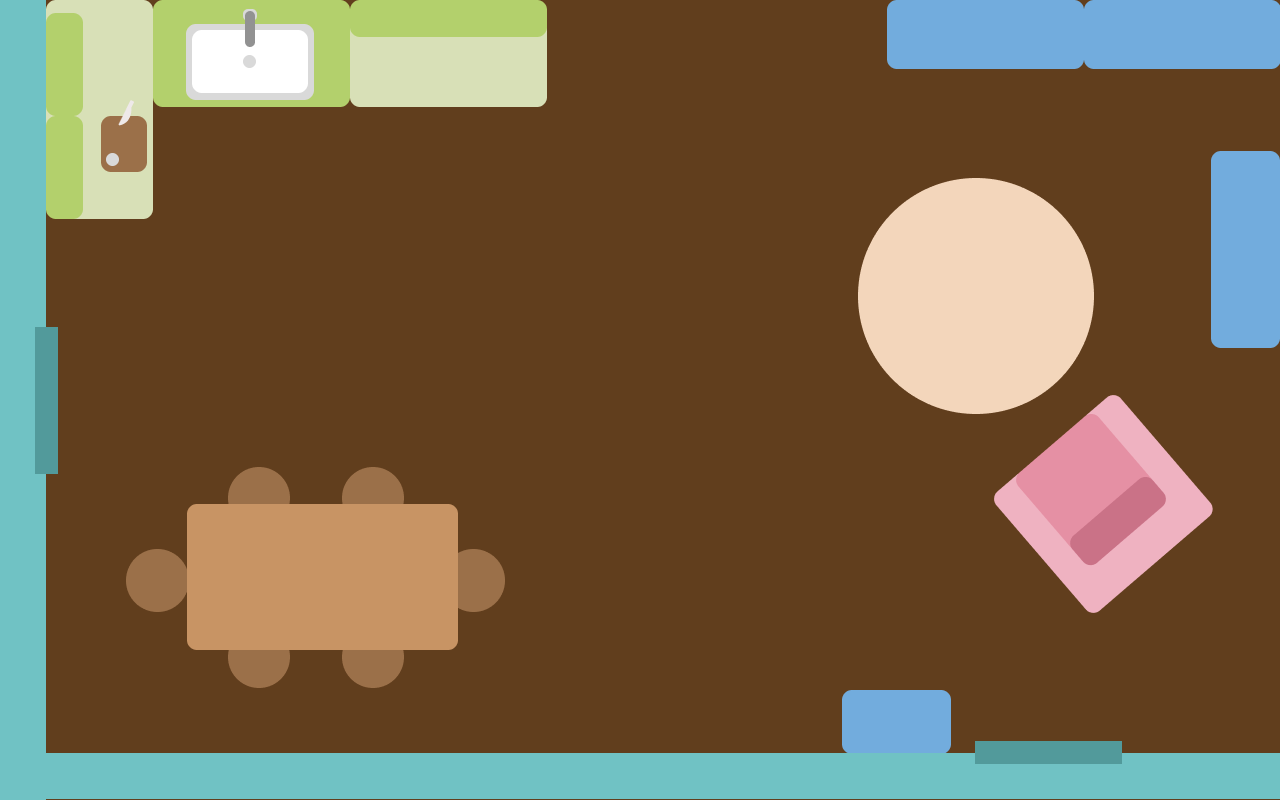
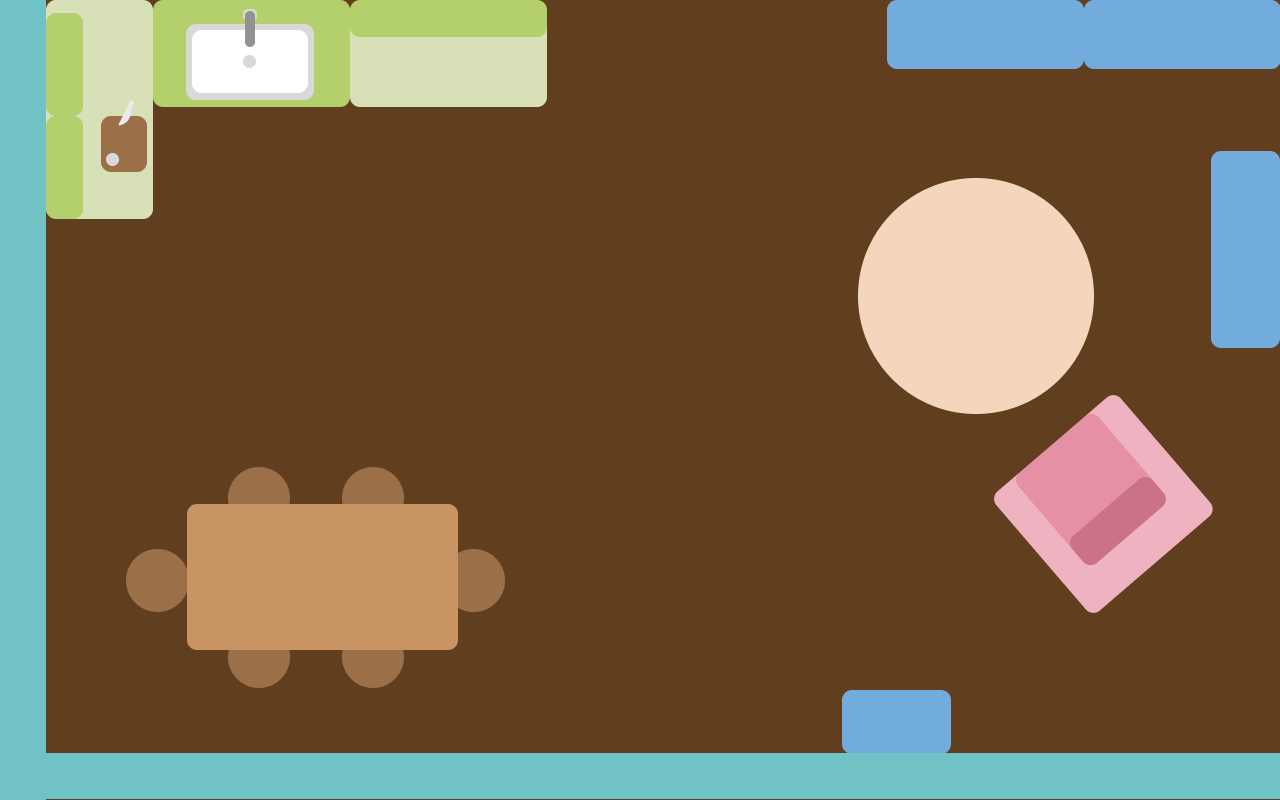
Added redirection to doors and holdoff timer

Changed region(s): [[0.0, 0.4062, 0.0625, 0.5938], [0.75, 0.9062, 0.875, 0.9688]]

diff --git a/bathroom/bathroom.js b/bathroom/bathroom.js
@@ -8,7 +8,7 @@ canvas.height = 800;
 
 // Load the background image
 const background = new Image();
-background.src = 'kitchen.png'; // Replace with the correct path to your background image
+background.src = 'bathroom.png'; // Replace with the correct path to your background image
 
 // Cat element and movement setup
 const cat = document.getElementById("cat");
@@ -24,16 +24,15 @@ const movement = {
   right: false
 };
 
-// Breakable objects and status tracking, including the door with isDoor property
+// Breakable objects and status tracking
 const objects = [
   { element: document.getElementById("object1"), brokenSrc: 'brokenvase.png' },
   { element: document.getElementById("object2"), brokenSrc: 'brokenplant.png' },
   { element: document.getElementById("object3"), brokenSrc: 'brokenbook.png' },
   { element: document.getElementById("object4"), brokenSrc: 'brokentable.png' },
-  { element: document.getElementById("object5"), brokenSrc: 'brokenlamp.png' },
-  { element: document.getElementById("door"), isDoor: true } // Door with isDoor flag
+  { element: document.getElementById("object5"), brokenSrc: 'brokenlamp.png' }
 ];
-const objectStates = [false, false, false, false, false, false]; // Tracks whether objects are broken
+const objectStates = [false, false, false, false, false]; // Tracks whether objects are broken
 
 // Update the cat's position and image based on movement direction
 function updateCatPosition() {
@@ -78,18 +77,15 @@ function detectCollision() {
   const catRect = cat.getBoundingClientRect();
 
   objects.forEach((object, index) => {
-    const objectRect = object.element.getBoundingClientRect();
+    if (!objectStates[index]) {
+      const objectRect = object.element.getBoundingClientRect();
 
-    if (
-      catRect.left < objectRect.right &&
-      catRect.right > objectRect.left &&
-      catRect.top < objectRect.bottom &&
-      catRect.bottom > objectRect.top
-    ) {
-      if (object.isDoor) {
-        // Navigate to bathroom.html if the door is hit
-        window.location.href = '../bathroom/bathroom.html';
-      } else if (!objectStates[index]) {
+      if (
+        catRect.left < objectRect.right &&
+        catRect.right > objectRect.left &&
+        catRect.top < objectRect.bottom &&
+        catRect.bottom > objectRect.top
+      ) {
         handleCollision(object, index);
       }
     }

diff --git a/bathroom/bathroom.css b/bathroom/bathroom.css
@@ -1,0 +1,108 @@
+/* General page styling */
+body {
+    margin: 0;
+    overflow: hidden;
+    display: flex;
+    justify-content: center;
+    align-items: center;
+    height: 100vh;
+    background-color: #f0f0f0;
+  }
+  
+  #game-container {
+    position: relative;
+    width: 1280px;
+    height: 800px;
+    background-color: #f0f0f0;
+    display: flex;
+    justify-content: center;
+    align-items: center;
+    overflow: hidden;
+  }
+  
+  /* Cat element styling */
+  #cat {
+    position: absolute;
+    width: 100px;
+    height: 100px;
+    background-image: url('meow.png'); /* Path to the cat image */
+    background-size: contain;
+    background-repeat: no-repeat;
+    top: 200px;
+    left: 200px;
+  }
+  
+  /* Canvas styling */
+  #gameCanvas {
+    width: 1280px;
+    height: 800px;
+    background-color: #7c6c61;
+    border-radius: 10px;
+  }
+  
+  /* Breakable object styling */
+  .breakableObject {
+    position: absolute;
+    width: 50px;
+    height: 50px;
+    transition: opacity 0.5s, transform 0.5s;
+  }
+  /* Smokey effect */
+  @keyframes smokeEffect {
+    0% {
+      opacity: 1;
+      transform: scale(1);
+      filter: blur(0px);
+    }
+    50% {
+      opacity: 0.5;
+      transform: scale(1.2);
+      filter: blur(5px);
+    }
+    100% {
+      opacity: 0;
+      transform: scale(1.5);
+      filter: blur(10px);
+    }
+  }
+  
+  .smokey {
+    animation: smokeEffect 1s forwards;
+  }
+  
+  /* Initial positions for objects */
+  #object1 {
+    top: 49px;
+    left: 580px;
+    height: auto;
+    width: auto;
+  }
+  
+  #object2 {
+    top: 15px;
+    left: 688px;
+    height: auto;
+    width: auto;
+  }
+  
+  #object3 {
+    top: 556px;
+    left: 301px;
+    height: auto;
+    width: auto;
+  }
+  
+  #object4 {
+    top: 165px;
+    left: 1002px;
+    height: auto;
+    width: auto;
+  }
+  
+  #object5 {
+    top: 4px;
+    left: 897px;
+    height: auto;
+    width: auto;
+  }
+  

diff --git a/universal/timer.js b/universal/timer.js
@@ -1,0 +1,42 @@
+// Set total game time (in seconds)
+let totalGameTime = 300; 
+let timeLeft = totalGameTime;
+
+// Function to update and display the timer
+function updateTimerDisplay() {
+  const timerDisplay = document.getElementById("timer");
+  if (timerDisplay) {
+    timerDisplay.textContent = `Time Left: ${Math.floor(timeLeft / 60)}:${timeLeft % 60 < 10 ? '0' : ''}${timeLeft % 60}`;
+  }
+}
+
+// Clear timeLeft from localStorage to reset at the start of a new game
+localStorage.removeItem('timeLeft');
+
+// Load saved time on page load if available
+window.addEventListener('load', () => {
+  const savedTime = localStorage.getItem('timeLeft');
+  if (savedTime) {
+    timeLeft = parseInt(savedTime, 10);
+  } else {
+    timeLeft = totalGameTime; // Set to full time if no saved time
+  }
+  updateTimerDisplay();
+});
+
+// Update the timer every second
+const timerInterval = setInterval(() => {
+  if (timeLeft > 0) {
+    timeLeft--;
+    updateTimerDisplay();
+  } else {
+    clearInterval(timerInterval);
+    localStorage.removeItem('timeLeft'); // Clear saved time on game over
+    window.location.href = 'game-over.html'; // Redirect to game over page
+  }
+}, 1000);
+
+// Store timeLeft in localStorage before unloading the page
+window.addEventListener('beforeunload', () => {
+  localStorage.setItem('timeLeft', timeLeft);
+});

diff --git a/bathroom/bathroom.html b/bathroom/bathroom.html
@@ -4,7 +4,7 @@
   <meta charset="UTF-8">
   <meta name="viewport" content="width=device-width, initial-scale=1.0">
   <title>Meow meow</title>
-  <link rel="stylesheet" href="kitchen.css">
+  <link rel="stylesheet" href="bathroom.css">
 </head>
 <body>
   <div id="game-container">
@@ -15,11 +15,9 @@
     <img src="tableplant.png" alt="Object 3" class="breakableObject" id="object3">
     <img src="tablet.png" alt="Object 4" class="breakableObject" id="object4">
     <img src="books.png" alt="Object 5" class="breakableObject" id="object5">
-    <img src="door.png" alt="Object 6" class="breakableObject" id="door">
   </div>
-  <script src="kitchen.js"></script>
+  <script src="bathroom.js"></script>
   <script src="../universal/timer.js"></script>
   <div id="timer">Time Left: 5:00</div>
-
 </body>
 </html>

diff --git a/kitchenroom/kitchen.css b/kitchenroom/kitchen.css
@@ -105,3 +105,10 @@ body {
   height: auto;
   width: auto;
 }
+
+#door {
+  top: 741px;
+  left: 975px;
+  height: auto;
+  width: auto;
+}
